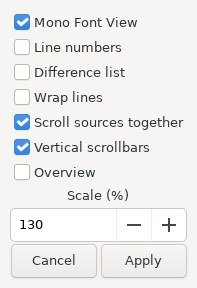
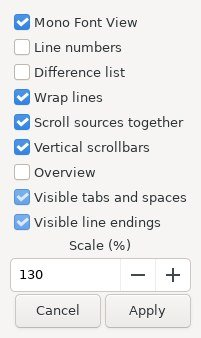
Add persisted visible whitespace and EOL overlays to all comparison panes

Changed region(s): [[0.0305, 0.0312, 0.9746, 1.0]]

diff --git a/src/insight-diff.c b/src/insight-diff.c
@@ -17,6 +17,7 @@ typedef struct {
  GtkWidget *find_entry,*find_side,*find_case,*find_word,*find_wrap,*find_previous,*find_next,*find_status,*numbers;
  GtkWidget *replace_entry,*replace_selection,*replace_once,*replace_case,*replace_status,*replace_apply;
  GtkWidget *edit_tab_width;
+ GtkWidget *visible_space,*visible_eol;
  GtkWidget *line_side,*line_number,*line_select,*line_status;
  GArray *map_blocks[2];guint map_lines[2];
  GtkWidget *scrollers[3],*maps[2],*zoom,*mono,*vertical,*overview,*list_toggle,*wrap_toggle;GtkCssProvider *font_css;
@@ -30,9 +31,9 @@ typedef struct {
 static GKeyFile *view_defaults;
 static GList *open_compares;
 static const gchar *view_group="file-compare";
-static const gchar *view_checks[]={"mono","numbers","list","wrap","sync","vertical","overview","ignore-space","ignore-eol"};
+static const gchar *view_checks[]={"mono","numbers","list","wrap","sync","vertical","overview","ignore-space","ignore-eol","visible-space","visible-eol"};
 static void view_controls(Merge *m,GtkWidget **controls) {
- GtkWidget *items[]={m->mono,m->numbers,m->list_toggle,m->wrap_toggle,m->sync,m->vertical,m->overview,m->ignore_space,m->ignore_eol};for(guint i=0;i<G_N_ELEMENTS(items);i++) controls[i]=items[i];
+ GtkWidget *items[]={m->mono,m->numbers,m->list_toggle,m->wrap_toggle,m->sync,m->vertical,m->overview,m->ignore_space,m->ignore_eol,m->visible_space,m->visible_eol};for(guint i=0;i<G_N_ELEMENTS(items);i++) controls[i]=items[i];
 }
 static void view_copy(GKeyFile *from,GKeyFile *to) {
  g_key_file_remove_group(to,view_group,NULL);const gchar *extra[]={"version","zoom","width","height"};
@@ -410,6 +411,33 @@ static gboolean draw_numbers(GtkWidget *widget,cairo_t *cr,gpointer data) {
  } while(TRUE);
  g_object_unref(layout);cairo_restore(cr);return FALSE;
 }
+static const gchar *whitespace_symbol(GtkTextIter at,gboolean spaces,gboolean endings) {
+ gunichar c=gtk_text_iter_get_char(&at);
+ if(spaces && c==' ') return "·";
+ if(spaces && c=='\t') return "→";
+ if(endings && c=='\r') return "¶";
+ if(endings && c=='\n') { GtkTextIter before=at;if(gtk_text_iter_backward_char(&before) && gtk_text_iter_get_char(&before)=='\r') return NULL;return "¶"; }
+ return NULL;
+}
+static gboolean draw_whitespace(GtkWidget *widget,cairo_t *cr,gpointer data) {
+ Merge *m=data;gboolean spaces=gtk_toggle_button_get_active(GTK_TOGGLE_BUTTON(m->visible_space)),endings=gtk_toggle_button_get_active(GTK_TOGGLE_BUTTON(m->visible_eol));if(!spaces && !endings) return FALSE;
+ GtkTextView *view=GTK_TEXT_VIEW(widget);GdkWindow *window=gtk_text_view_get_window(view,GTK_TEXT_WINDOW_TEXT);if(!window || !gtk_cairo_should_draw_window(cr,window)) return FALSE;
+ cairo_save(cr);gtk_cairo_transform_to_window(cr,widget,window);cairo_rectangle(cr,0,0,gdk_window_get_width(window),gdk_window_get_height(window));cairo_clip(cr);
+ GdkRGBA color;GtkStyleContext *style=gtk_widget_get_style_context(widget);gtk_style_context_get_color(style,gtk_style_context_get_state(style),&color);color.alpha*=0.55;gdk_cairo_set_source_rgba(cr,&color);
+ GdkRectangle visible;gtk_text_view_get_visible_rect(view,&visible);GtkTextIter at;gtk_text_view_get_iter_at_location(view,&at,visible.x,visible.y);
+ PangoLayout *layout=gtk_widget_create_pango_layout(widget,NULL);
+ /* Bound work even for pathological unwrapped lines. Glyphs never enter buffers. */
+ for(guint scanned=0;scanned<20000 && !gtk_text_iter_is_end(&at);scanned++) {
+  GdkRectangle location;gtk_text_view_get_iter_location(view,&at,&location);if(location.y>visible.y+visible.height) break;
+  const gchar *symbol=whitespace_symbol(at,spaces,endings);
+  if(symbol && location.x+MAX(location.width,8)>=visible.x && location.x<visible.x+visible.width && location.y+location.height>=visible.y) {
+   gint x,y,width,height;gtk_text_view_buffer_to_window_coords(view,GTK_TEXT_WINDOW_TEXT,location.x,location.y,&x,&y);pango_layout_set_text(layout,symbol,-1);pango_layout_get_pixel_size(layout,&width,&height);
+   cairo_move_to(cr,x+MAX(0,(location.width-width)/2),y+MAX(0,(location.height-height)/2));pango_cairo_show_layout(cr,layout);
+  }
+  if(!gtk_text_iter_forward_char(&at)) break;
+ }
+ g_object_unref(layout);cairo_restore(cr);return FALSE;
+}
 static gint selected(Merge *m);
 static void map_redraw(Merge *m) { for(gint i=0;i<2;i++) if(m->maps[i]) gtk_widget_queue_draw(m->maps[i]); }
 static guint map_line(const gchar *text,gsize *offset,guint *line,gsize target) {
@@ -470,7 +498,7 @@ static void view_options(GtkWidget *widget,gpointer data) {
  (void)widget;Merge *m=data;GtkWidget *window=m->window;g_object_ref(window);
  GtkWidget *dialog=gtk_dialog_new_with_buttons("File Compare Options",GTK_WINDOW(window),GTK_DIALOG_MODAL|GTK_DIALOG_DESTROY_WITH_PARENT,"Cancel",GTK_RESPONSE_CANCEL,"Apply",GTK_RESPONSE_APPLY,NULL);gtk_widget_set_name(dialog,"insight-diff-options");
  g_object_ref(dialog);GtkWidget *box=gtk_dialog_get_content_area(GTK_DIALOG(dialog));gtk_container_set_border_width(GTK_CONTAINER(box),10);
- GtkWidget *sources[]={m->mono,m->numbers,m->list_toggle,m->wrap_toggle,m->sync,m->vertical,m->overview};GtkWidget *checks[G_N_ELEMENTS(sources)];
+ GtkWidget *sources[]={m->mono,m->numbers,m->list_toggle,m->wrap_toggle,m->sync,m->vertical,m->overview,m->visible_space,m->visible_eol};GtkWidget *checks[G_N_ELEMENTS(sources)];
  for(guint i=0;i<G_N_ELEMENTS(sources);i++) { checks[i]=gtk_check_button_new_with_label(gtk_button_get_label(GTK_BUTTON(sources[i])));gtk_toggle_button_set_active(GTK_TOGGLE_BUTTON(checks[i]),gtk_toggle_button_get_active(GTK_TOGGLE_BUTTON(sources[i])));gtk_box_pack_start(GTK_BOX(box),checks[i],FALSE,FALSE,2);gchar *name=g_strdup_printf("insight-diff-options-%u",i);gtk_widget_set_name(checks[i],name);g_free(name); }
  GtkWidget *scale=gtk_spin_button_new_with_range(50,250,10);gtk_spin_button_set_value(GTK_SPIN_BUTTON(scale),gtk_spin_button_get_value(GTK_SPIN_BUTTON(m->zoom)));gtk_widget_set_name(scale,"insight-diff-options-zoom");gtk_box_pack_start(GTK_BOX(box),gtk_label_new("Scale (%)"),FALSE,FALSE,2);gtk_box_pack_start(GTK_BOX(box),scale,FALSE,FALSE,2);gtk_widget_show_all(dialog);
  gint response=gtk_dialog_run(GTK_DIALOG(dialog));m=g_object_get_data(G_OBJECT(window),"insight-diff-state");
@@ -614,7 +642,7 @@ static void source_menu(GtkTextView *view,GtkWidget *menu,gpointer data) {
   if(action>=14) gtk_widget_set_sensitive(item,!m->busy && (action==14 || gtk_text_buffer_get_has_selection(result(m))));
   if(action<2) gtk_widget_set_sensitive(item,!m->busy && m->loaded_paths[side] && (action==0 ? source_opener!=NULL : selected(m)>=0));
  }
- GtkWidget *toggles[]={m->mono,m->numbers,m->list_toggle,m->wrap_toggle,m->vertical,m->overview};
+ GtkWidget *toggles[]={m->mono,m->numbers,m->list_toggle,m->wrap_toggle,m->vertical,m->overview,m->visible_space,m->visible_eol};
  for(guint i=0;i<G_N_ELEMENTS(toggles);i++) { GtkWidget *item=gtk_check_menu_item_new_with_label(gtk_button_get_label(GTK_BUTTON(toggles[i])));gtk_check_menu_item_set_active(GTK_CHECK_MENU_ITEM(item),gtk_toggle_button_get_active(GTK_TOGGLE_BUTTON(toggles[i])));gtk_menu_shell_append(GTK_MENU_SHELL(menu),item);g_signal_connect_object(item,"toggled",G_CALLBACK(view_menu_toggle),toggles[i],0); }
  gtk_widget_show_all(menu);
 }
@@ -834,6 +862,9 @@ static Merge *merge_new(GtkWidget *parent) {
  m->overview=gtk_check_button_new_with_label("Overview");gtk_box_pack_start(GTK_BOX(display),m->overview,FALSE,FALSE,0);
  gtk_box_pack_start(GTK_BOX(display),gtk_label_new("Scale (%)"),FALSE,FALSE,0);m->zoom=gtk_spin_button_new_with_range(50,250,10);gtk_spin_button_set_value(GTK_SPIN_BUTTON(m->zoom),100);gtk_widget_set_name(m->zoom,"insight-diff-zoom");gtk_box_pack_start(GTK_BOX(display),m->zoom,FALSE,FALSE,0);GtkWidget *settings=button(display,"Options…",G_CALLBACK(view_options),m);gtk_widget_set_name(settings,"insight-diff-options-button");m->font_css=gtk_css_provider_new();
  GtkWidget *history_button=button(display,"Result History…",G_CALLBACK(history_dialog),m);gtk_widget_set_name(history_button,"insight-diff-history-button");
+ GtkWidget *whitespace=gtk_box_new(GTK_ORIENTATION_HORIZONTAL,4);gtk_box_pack_start(GTK_BOX(box),whitespace,FALSE,FALSE,0);
+ m->visible_space=gtk_check_button_new_with_label("Visible tabs and spaces");gtk_box_pack_start(GTK_BOX(whitespace),m->visible_space,FALSE,FALSE,0);
+ m->visible_eol=gtk_check_button_new_with_label("Visible line endings");gtk_box_pack_start(GTK_BOX(whitespace),m->visible_eol,FALSE,FALSE,0);gtk_box_pack_start(GTK_BOX(whitespace),gtk_label_new("· space   → tab   ¶ line ending"),FALSE,FALSE,4);
  GtkWidget *find=gtk_box_new(GTK_ORIENTATION_HORIZONTAL,4);gtk_box_pack_start(GTK_BOX(box),find,FALSE,FALSE,0);
  m->find_side=gtk_combo_box_text_new();gtk_combo_box_text_append_text(GTK_COMBO_BOX_TEXT(m->find_side),"Left");gtk_combo_box_text_append_text(GTK_COMBO_BOX_TEXT(m->find_side),"Right");gtk_combo_box_text_append_text(GTK_COMBO_BOX_TEXT(m->find_side),"Result");gtk_combo_box_set_active(GTK_COMBO_BOX(m->find_side),0);gtk_box_pack_start(GTK_BOX(find),m->find_side,FALSE,FALSE,0);
  m->find_entry=gtk_search_entry_new();gtk_widget_set_name(m->find_entry,"insight-diff-search");gtk_entry_set_placeholder_text(GTK_ENTRY(m->find_entry),"Find text — Ctrl+F, F3 / Shift+F3");gtk_box_pack_start(GTK_BOX(find),m->find_entry,TRUE,TRUE,0);
@@ -879,7 +910,7 @@ static Merge *merge_new(GtkWidget *parent) {
 
   gtk_style_context_add_provider(gtk_widget_get_style_context(m->views[i]),GTK_STYLE_PROVIDER(m->font_css),GTK_STYLE_PROVIDER_PRIORITY_APPLICATION);gtk_widget_add_events(m->views[i],GDK_SCROLL_MASK|GDK_SMOOTH_SCROLL_MASK);g_signal_connect(m->views[i],"scroll-event",G_CALLBACK(zoom_scroll),m);
   g_signal_connect(m->views[i],"key-press-event",G_CALLBACK(key),m);g_signal_connect(m->views[i],"populate-popup",G_CALLBACK(source_menu),m);
-  g_signal_connect_after(m->views[i],"draw",G_CALLBACK(draw_numbers),m);
+  g_signal_connect_after(m->views[i],"draw",G_CALLBACK(draw_numbers),m);g_signal_connect_after(m->views[i],"draw",G_CALLBACK(draw_whitespace),m);
   g_signal_connect(gtk_text_view_get_buffer(GTK_TEXT_VIEW(m->views[i])),"changed",G_CALLBACK(gutter_size),m);
   if(i<2) gtk_text_buffer_create_tag(gtk_text_view_get_buffer(GTK_TEXT_VIEW(m->views[i])),"difference","background",i ? "#d5f5d5" : "#ffe0d0","foreground","#202020",NULL);
  }
@@ -898,6 +929,7 @@ static Merge *merge_new(GtkWidget *parent) {
  for(gint i=0;i<2;i++) { g_signal_connect(m->adjustments[i],"value-changed",G_CALLBACK(map_adjustment),m);g_signal_connect(m->adjustments[i],"changed",G_CALLBACK(map_adjustment),m); }
  g_signal_connect(m->numbers,"toggled",G_CALLBACK(number_toggle),m);number_toggle(NULL,m);
  g_object_set_data(G_OBJECT(m->window),"insight-diff-state",m);
+ g_signal_connect(m->visible_space,"toggled",G_CALLBACK(display_changed),m);g_signal_connect(m->visible_eol,"toggled",G_CALLBACK(display_changed),m);
  g_signal_connect(m->zoom,"value-changed",G_CALLBACK(display_changed),m);g_signal_connect(m->mono,"toggled",G_CALLBACK(display_changed),m);g_signal_connect(m->vertical,"toggled",G_CALLBACK(display_changed),m);g_signal_connect(m->overview,"toggled",G_CALLBACK(display_changed),m);
  GtkWidget *controls[G_N_ELEMENTS(view_checks)];view_controls(m,controls);for(guint i=0;i<G_N_ELEMENTS(view_checks);i++) { g_object_ref(controls[i]);gchar *name=g_strconcat("insight-diff-",view_checks[i],NULL);gtk_widget_set_name(controls[i],name);g_free(name); }g_object_ref(m->zoom);
  record(m);selection(NULL,m);gtk_widget_show_all(m->window);view_restore(m,view_defaults);display_changed(NULL,m);open_compares=g_list_prepend(open_compares,m);return m;

diff --git a/insight/tests/diff_gui_test.c b/insight/tests/diff_gui_test.c
@@ -46,6 +46,7 @@ static gboolean options_response(gpointer data) {
  for(GList *p=windows;p && !dialog;p=p->next) if(!g_strcmp0(gtk_widget_get_name(p->data),"insight-diff-options")) dialog=p->data;
  g_list_free(windows);g_assert_nonnull(dialog);
  gtk_spin_button_set_value(GTK_SPIN_BUTTON(named(dialog,"insight-diff-options-zoom")),130);gtk_toggle_button_set_active(GTK_TOGGLE_BUTTON(named(dialog,"insight-diff-options-1")),FALSE);gtk_toggle_button_set_active(GTK_TOGGLE_BUTTON(named(dialog,"insight-diff-options-2")),FALSE);
+ gtk_toggle_button_set_active(GTK_TOGGLE_BUTTON(named(dialog,"insight-diff-options-7")),TRUE);gtk_toggle_button_set_active(GTK_TOGGLE_BUTTON(named(dialog,"insight-diff-options-8")),TRUE);
  const gchar *capture=g_getenv("INSIGHT_DIFF_OPTIONS_CAPTURE");
  if(capture && GPOINTER_TO_INT(data)==GTK_RESPONSE_APPLY) { gint64 until=g_get_monotonic_time()+200000;while(g_get_monotonic_time()<until) { flush();g_usleep(1000); }GdkWindow *window=gtk_widget_get_window(dialog);GdkPixbuf *image=gdk_pixbuf_get_from_window(window,0,0,gdk_window_get_width(window),gdk_window_get_height(window));g_assert_nonnull(image);g_assert_true(gdk_pixbuf_save(image,capture,"jpeg",NULL,"quality","88",NULL));g_object_unref(image); }
  gtk_dialog_response(GTK_DIALOG(dialog),GPOINTER_TO_INT(data));return G_SOURCE_REMOVE;
@@ -179,14 +180,26 @@ static void export_test(void) {
  action.mutate=TRUE;g_timeout_add(100,export_choose,&action);write_result(m,1);g_assert_false(g_file_test(path,G_FILE_TEST_EXISTS));g_assert_nonnull(strstr(gtk_label_get_text(GTK_LABEL(m->status)),"Nothing written"));
  action.mutate=FALSE;action.destroy=TRUE;gboolean gone=FALSE;g_object_weak_ref(G_OBJECT(m->window),finalized,&gone);g_timeout_add(100,export_choose,&action);write_result(m,1);flush();g_assert_true(gone);g_assert_false(g_file_test(path,G_FILE_TEST_EXISTS));g_free(saved);g_rmdir(folder);g_free(path);g_free(folder);
 }
+static GdkPixbuf *text_capture(GtkWidget *view) {
+ gint64 until=g_get_monotonic_time()+200000;while(g_get_monotonic_time()<until) { flush();g_usleep(1000); }
+ GdkWindow *window=gtk_text_view_get_window(GTK_TEXT_VIEW(view),GTK_TEXT_WINDOW_TEXT);GdkPixbuf *pixbuf=gdk_pixbuf_get_from_window(window,0,0,gdk_window_get_width(window),gdk_window_get_height(window));g_assert_nonnull(pixbuf);return pixbuf;
+}
+static void whitespace_test(void) {
+ Merge *m=merge_new(NULL);GtkTextBuffer *buffer=result(m);const gchar *text="я \t\r\nx\ry\n\n";gtk_text_buffer_set_text(buffer,text,-1);guint history=m->history->len;
+ GtkTextIter at;gtk_text_buffer_get_start_iter(buffer,&at);guint markers=0,endings=0;
+ while(!gtk_text_iter_is_end(&at)) { const gchar *symbol=whitespace_symbol(at,TRUE,TRUE);if(symbol) { markers++;if(!strcmp(symbol,"¶")) endings++; }g_assert_null(whitespace_symbol(at,FALSE,FALSE));gtk_text_iter_forward_char(&at); }
+ g_assert_cmpuint(markers,==,6);g_assert_cmpuint(endings,==,4);gtk_text_view_set_cursor_visible(GTK_TEXT_VIEW(m->views[2]),FALSE);
+ GdkPixbuf *plain=text_capture(m->views[2]);gtk_toggle_button_set_active(GTK_TOGGLE_BUTTON(m->visible_space),TRUE);gtk_toggle_button_set_active(GTK_TOGGLE_BUTTON(m->visible_eol),TRUE);GdkPixbuf *marked=text_capture(m->views[2]);g_assert_cmpint(gdk_pixbuf_get_byte_length(plain),==,gdk_pixbuf_get_byte_length(marked));g_assert_true(memcmp(gdk_pixbuf_get_pixels(plain),gdk_pixbuf_get_pixels(marked),gdk_pixbuf_get_byte_length(plain))!=0);g_object_unref(plain);g_object_unref(marked);assert_text(m,text);g_assert_cmpuint(m->history->len,==,history);
+ GKeyFile *prefs=g_key_file_new();view_save(m,prefs);gtk_toggle_button_set_active(GTK_TOGGLE_BUTTON(m->visible_space),FALSE);gtk_toggle_button_set_active(GTK_TOGGLE_BUTTON(m->visible_eol),FALSE);view_restore(m,prefs);g_assert_true(gtk_toggle_button_get_active(GTK_TOGGLE_BUTTON(m->visible_space)));g_assert_true(gtk_toggle_button_get_active(GTK_TOGGLE_BUTTON(m->visible_eol)));g_key_file_unref(prefs);gtk_widget_destroy(m->window);flush();
+}
 int main(int argc,char **argv) {
- g_setenv("GSETTINGS_BACKEND","memory",TRUE);gtk_init(&argc,&argv);line_navigation_test();search_options_test();replace_test();case_test();line_edit_test();history_test();export_test();insight_diff_set_source_opener(source_opened);
+ g_setenv("GSETTINGS_BACKEND","memory",TRUE);gtk_init(&argc,&argv);line_navigation_test();search_options_test();replace_test();case_test();line_edit_test();history_test();export_test();whitespace_test();insight_diff_set_source_opener(source_opened);
  GError *error=NULL;gchar *dir=g_dir_make_tmp("insight-diff-XXXXXX",&error);g_assert_no_error(error);
  gchar *left=g_build_filename(dir,"left.txt",NULL),*right=g_build_filename(dir,"right.txt",NULL);
  const char *a="start\nleft\ncommon\nlast left\nend\n",*b="start\nright\ncommon\nlast right\nextra\nend\n";
  g_assert_true(g_file_set_contents(left,a,-1,&error));g_assert_no_error(error);
  g_assert_true(g_file_set_contents(right,b,-1,&error));g_assert_no_error(error);
- Merge *m=merge_new(NULL);flush();g_assert_false(gtk_widget_get_sensitive(m->next));
+ Merge *m=merge_new(NULL);gtk_toggle_button_set_active(GTK_TOGGLE_BUTTON(m->visible_space),FALSE);gtk_toggle_button_set_active(GTK_TOGGLE_BUTTON(m->visible_eol),FALSE);flush();g_assert_false(gtk_widget_get_sensitive(m->next));
  gtk_entry_set_text(GTK_ENTRY(m->paths[0]),left);gtk_entry_set_text(GTK_ENTRY(m->paths[1]),right);
  compare(NULL,m);wait_comparison(m);g_assert_cmpuint(m->diff.count,==,2);g_assert_cmpint(selected(m),==,0);
  g_assert_false(gtk_widget_get_sensitive(m->previous));g_assert_true(gtk_widget_get_sensitive(m->next));
@@ -228,8 +241,8 @@ int main(int argc,char **argv) {
  gtk_spin_button_set_value(GTK_SPIN_BUTTON(m->zoom),300);g_assert_cmpint(gtk_spin_button_get_value_as_int(GTK_SPIN_BUTTON(m->zoom)),==,250);gtk_spin_button_set_value(GTK_SPIN_BUTTON(m->zoom),100);
  gtk_toggle_button_set_active(GTK_TOGGLE_BUTTON(m->vertical),FALSE);for(gint i=0;i<3;i++) { GtkPolicyType h,v;gtk_scrolled_window_get_policy(GTK_SCROLLED_WINDOW(m->scrollers[i]),&h,&v);g_assert_cmpint(v,==,GTK_POLICY_NEVER); }gtk_toggle_button_set_active(GTK_TOGGLE_BUTTON(m->vertical),TRUE);
  gtk_toggle_button_set_active(GTK_TOGGLE_BUTTON(m->mono),FALSE);g_assert_false(gtk_text_view_get_monospace(GTK_TEXT_VIEW(m->views[0])));gtk_toggle_button_set_active(GTK_TOGGLE_BUTTON(m->mono),TRUE);
- g_idle_add(options_response,GINT_TO_POINTER(GTK_RESPONSE_CANCEL));view_options(NULL,m);g_assert_cmpint(gtk_spin_button_get_value_as_int(GTK_SPIN_BUTTON(m->zoom)),==,100);g_assert_true(gtk_toggle_button_get_active(GTK_TOGGLE_BUTTON(m->numbers)));
- g_idle_add(options_response,GINT_TO_POINTER(GTK_RESPONSE_APPLY));view_options(NULL,m);g_assert_cmpint(gtk_spin_button_get_value_as_int(GTK_SPIN_BUTTON(m->zoom)),==,130);g_assert_false(gtk_widget_get_visible(m->list_scroll));g_assert_false(gtk_toggle_button_get_active(GTK_TOGGLE_BUTTON(m->numbers)));g_assert_cmpuint(m->position,==,display_history);assert_text(m,a);
+ g_idle_add(options_response,GINT_TO_POINTER(GTK_RESPONSE_CANCEL));view_options(NULL,m);g_assert_cmpint(gtk_spin_button_get_value_as_int(GTK_SPIN_BUTTON(m->zoom)),==,100);g_assert_true(gtk_toggle_button_get_active(GTK_TOGGLE_BUTTON(m->numbers)));g_assert_false(gtk_toggle_button_get_active(GTK_TOGGLE_BUTTON(m->visible_space)));
+ g_idle_add(options_response,GINT_TO_POINTER(GTK_RESPONSE_APPLY));view_options(NULL,m);g_assert_cmpint(gtk_spin_button_get_value_as_int(GTK_SPIN_BUTTON(m->zoom)),==,130);g_assert_false(gtk_widget_get_visible(m->list_scroll));g_assert_false(gtk_toggle_button_get_active(GTK_TOGGLE_BUTTON(m->numbers)));g_assert_cmpuint(m->position,==,display_history);g_assert_true(gtk_toggle_button_get_active(GTK_TOGGLE_BUTTON(m->visible_space)));g_assert_true(gtk_toggle_button_get_active(GTK_TOGGLE_BUTTON(m->visible_eol)));assert_text(m,a);
  gtk_spin_button_set_value(GTK_SPIN_BUTTON(m->zoom),100);gtk_toggle_button_set_active(GTK_TOGGLE_BUTTON(m->numbers),TRUE);gtk_toggle_button_set_active(GTK_TOGGLE_BUTTON(m->list_toggle),TRUE);
  gtk_toggle_button_set_active(GTK_TOGGLE_BUTTON(m->overview),TRUE);gint64 map_deadline=g_get_monotonic_time()+200000;while(g_get_monotonic_time()<map_deadline) { flush();g_usleep(1000); }g_assert_cmpint(gtk_widget_get_allocated_height(m->maps[0]),>,20);for(gint i=0;i<2;i++) { g_assert_true(gtk_widget_get_visible(m->maps[i]));g_assert_cmpuint(m->map_blocks[i]->len,==,m->diff.count); }
  /* EOF changes in a long file must remain visible and clickable, rather

diff --git a/insight/tests/directory_compare_native_gui_test.c b/insight/tests/directory_compare_native_gui_test.c
@@ -21,7 +21,7 @@ static GtkWidget *window_named(const gchar *name) {
 static gboolean respond_file_dialog(gpointer data) {GtkWidget *dialog=window_named("insight-directory-operation-dialog");g_assert_nonnull(dialog);gtk_dialog_response(GTK_DIALOG(dialog),GPOINTER_TO_INT(data));return G_SOURCE_REMOVE;
 }
 static gboolean apply_compare_options(gpointer data) {
- (void)data;GtkWidget *dialog=window_named("insight-diff-options");g_assert_nonnull(dialog);gtk_spin_button_set_value(GTK_SPIN_BUTTON(named(dialog,"insight-diff-options-zoom")),130);gtk_toggle_button_set_active(GTK_TOGGLE_BUTTON(named(dialog,"insight-diff-options-6")),TRUE);gtk_dialog_response(GTK_DIALOG(dialog),GTK_RESPONSE_APPLY);return G_SOURCE_REMOVE;
+ (void)data;GtkWidget *dialog=window_named("insight-diff-options");g_assert_nonnull(dialog);gtk_spin_button_set_value(GTK_SPIN_BUTTON(named(dialog,"insight-diff-options-zoom")),130);gtk_toggle_button_set_active(GTK_TOGGLE_BUTTON(named(dialog,"insight-diff-options-6")),TRUE);gtk_toggle_button_set_active(GTK_TOGGLE_BUTTON(named(dialog,"insight-diff-options-7")),TRUE);gtk_toggle_button_set_active(GTK_TOGGLE_BUTTON(named(dialog,"insight-diff-options-8")),TRUE);gtk_dialog_response(GTK_DIALOG(dialog),GTK_RESPONSE_APPLY);return G_SOURCE_REMOVE;
 }
 static gboolean apply_history_state(gpointer data) {
  (void)data;GtkWidget *dialog=window_named("insight-diff-history");g_assert_nonnull(dialog);GtkTreePath *path=gtk_tree_path_new_from_indices(1,-1);gtk_tree_view_set_cursor(GTK_TREE_VIEW(named(dialog,"insight-diff-history-list")),path,NULL,FALSE);gtk_tree_path_free(path);gtk_dialog_response(GTK_DIALOG(dialog),GTK_RESPONSE_APPLY);return G_SOURCE_REMOVE;
@@ -56,6 +56,7 @@ static gboolean step(gpointer data) {
   if(!gtk_widget_get_sensitive(named(merge,"insight-diff-compare"))) return G_SOURCE_CONTINUE;
   GtkTextBuffer *buffer=gtk_text_view_get_buffer(GTK_TEXT_VIEW(named(merge,"insight-diff-result")));GtkTextIter a,z;gtk_text_buffer_get_bounds(buffer,&a,&z);gchar *text=gtk_text_buffer_get_text(buffer,&a,&z,TRUE);g_assert_cmpstr(text,==,"port = 3000\n");g_free(text);
   GdkEventKey shortcut={0};shortcut.type=GDK_KEY_PRESS;shortcut.state=GDK_CONTROL_MASK;shortcut.keyval=GDK_KEY_q;gboolean handled=FALSE;g_idle_add(apply_compare_options,NULL);g_signal_emit_by_name(merge,"key-press-event",&shortcut,&handled);g_assert_true(handled);g_assert_cmpint(gtk_spin_button_get_value_as_int(GTK_SPIN_BUTTON(named(merge,"insight-diff-zoom"))),==,130);g_assert_true(gtk_toggle_button_get_active(GTK_TOGGLE_BUTTON(named(merge,"insight-diff-overview"))));
+  g_assert_true(gtk_toggle_button_get_active(GTK_TOGGLE_BUTTON(named(merge,"insight-diff-visible-space"))));g_assert_true(gtk_toggle_button_get_active(GTK_TOGGLE_BUTTON(named(merge,"insight-diff-visible-eol"))));
   gtk_entry_set_text(GTK_ENTRY(named(merge,"insight-diff-search")),"port");gtk_entry_set_text(GTK_ENTRY(named(merge,"insight-diff-replacement")),"SERVER");gtk_toggle_button_set_active(GTK_TOGGLE_BUTTON(named(merge,"insight-diff-preserve-case")),TRUE);gtk_button_clicked(GTK_BUTTON(named(merge,"insight-diff-replace-all")));gtk_text_buffer_get_bounds(buffer,&a,&z);text=gtk_text_buffer_get_text(buffer,&a,&z,TRUE);g_assert_cmpstr(text,==,"server = 3000\n");g_free(text);shortcut.keyval=GDK_KEY_z;handled=FALSE;g_signal_emit_by_name(merge,"key-press-event",&shortcut,&handled);g_assert_true(handled);gtk_text_buffer_get_bounds(buffer,&a,&z);text=gtk_text_buffer_get_text(buffer,&a,&z,TRUE);g_assert_cmpstr(text,==,"port = 3000\n");g_free(text);
   gtk_text_buffer_get_start_iter(buffer,&a);gtk_text_buffer_place_cursor(buffer,&a);GtkWidget *result_menu=GTK_WIDGET(gtk_menu_button_get_popup(GTK_MENU_BUTTON(named(merge,"insight-diff-result-menu"))));gtk_widget_show(result_menu);GList *edit_items=gtk_container_get_children(GTK_CONTAINER(result_menu));gboolean indented=FALSE;for(GList *p=edit_items;p;p=p->next) if(GTK_IS_MENU_ITEM(p->data) && !g_strcmp0(gtk_menu_item_get_label(p->data),"Indent result lines")) { gtk_menu_item_activate(p->data);indented=TRUE;break; }g_list_free(edit_items);gtk_widget_hide(result_menu);g_assert_true(indented);gtk_text_buffer_get_bounds(buffer,&a,&z);text=gtk_text_buffer_get_text(buffer,&a,&z,TRUE);g_assert_cmpstr(text,==,"    port = 3000\n");g_free(text);shortcut.keyval=GDK_KEY_z;handled=FALSE;g_signal_emit_by_name(merge,"key-press-event",&shortcut,&handled);g_assert_true(handled);
   g_idle_add(apply_history_state,NULL);gtk_button_clicked(GTK_BUTTON(named(merge,"insight-diff-history-button")));gtk_text_buffer_get_bounds(buffer,&a,&z);text=gtk_text_buffer_get_text(buffer,&a,&z,TRUE);g_assert_cmpstr(text,==,"    port = 3000\n");g_free(text);shortcut.keyval=GDK_KEY_z;handled=FALSE;g_signal_emit_by_name(merge,"key-press-event",&shortcut,&handled);g_assert_true(handled);
@@ -84,5 +85,5 @@ int main(void) {
  gchar *unknown=g_build_filename(left,"payload.insight-unknown-binary-77",NULL);g_assert_true(g_file_set_contents(unknown,"a\0b",3,NULL));g_free(unknown);
  gchar *args[]={"directory-native","--new-instance","--no-session","--config",profile,source,NULL};g_timeout_add(250,step,NULL);g_timeout_add_seconds(30,timeout,NULL);g_log_set_always_fatal(G_LOG_FATAL_MASK|G_LOG_LEVEL_CRITICAL);
  gint result=main_lib(6,args);
- GKeyFile *saved=g_key_file_new();gchar *prefs=g_build_filename(profile,"insight","workbench.conf",NULL);g_assert_true(g_key_file_load_from_file(saved,prefs,G_KEY_FILE_NONE,NULL));g_assert_cmpint(g_key_file_get_integer(saved,"directory-compare","version",NULL),==,1);g_assert_true(g_key_file_get_boolean(saved,"directory-compare","known",NULL));g_assert_false(g_key_file_get_boolean(saved,"directory-compare","confirm",NULL));g_assert_cmpint(g_key_file_get_integer(saved,"file-compare","zoom",NULL),==,130);g_assert_true(g_key_file_get_boolean(saved,"file-compare","overview",NULL));g_free(prefs);g_key_file_unref(saved);g_free(other);g_free(config);g_free(source);g_free(left);g_free(right);g_free(profile);g_free(root);g_free(export_path);return result;
+ GKeyFile *saved=g_key_file_new();gchar *prefs=g_build_filename(profile,"insight","workbench.conf",NULL);g_assert_true(g_key_file_load_from_file(saved,prefs,G_KEY_FILE_NONE,NULL));g_assert_cmpint(g_key_file_get_integer(saved,"directory-compare","version",NULL),==,1);g_assert_true(g_key_file_get_boolean(saved,"directory-compare","known",NULL));g_assert_false(g_key_file_get_boolean(saved,"directory-compare","confirm",NULL));g_assert_cmpint(g_key_file_get_integer(saved,"file-compare","zoom",NULL),==,130);g_assert_true(g_key_file_get_boolean(saved,"file-compare","overview",NULL));g_assert_true(g_key_file_get_boolean(saved,"file-compare","visible-space",NULL));g_assert_true(g_key_file_get_boolean(saved,"file-compare","visible-eol",NULL));g_free(prefs);g_key_file_unref(saved);g_free(other);g_free(config);g_free(source);g_free(left);g_free(right);g_free(profile);g_free(root);g_free(export_path);return result;
 }

diff --git a/insight/docs/source-insight-parity.md b/insight/docs/source-insight-parity.md
@@ -452,3 +452,7 @@ Added Undo All/Redo All over retained states and Result History with read-only f
 ### 2026-10-16 — result copy and selection export
 
 Added Save a Copy and Save Selection to Result menu. Both preserve saved-text marker and history; selection export opens the file through the native editor bridge. Unified normal result save with capture-before-dialog, busy and history-serial guards, and parent-destruction-safe lifetime handling. Exact UTF-8/EOL bytes are written without BOM/newline additions; GTK confirms overwrite. No append-to-buffer mode. Production GTK/UBSan covers copy, selection bytes, opener routing, normal save marker, Cancel, stale text, empty selection, busy and parent close. Native Linux fixture exports through Result menu and verifies file content and opened unmodified document. References: [Save A Copy](https://www.sourceinsight.com/doc/v3/ac924207.htm), [Save Selection command](https://www.sourceinsight.com/doc/v4/userguide/Manual/Command_Reference/Commands.htm).
+
+### 2026-10-16 — visible whitespace in comparison panes
+
+Added visible ASCII spaces/tabs and line-ending overlays to all three native comparison panes. CRLF produces one paragraph marker. Toolbar, Apply/Cancel options and context toggles share state; two whitelisted booleans persist without changing preference version or old option indices. Draw traversal is bounded at 20000 characters with clipping to the text window; zoom/wrap use GTK iter geometry. Production GTK/UBSan checks marker classification, real pixel changes, unchanged exact bytes/history and preference round trip. Native Linux fixture applies both options and verifies saved config. Reference: [Visible Tabs and Spaces](https://www.sourceinsight.com/doc/v4/userguide/Manual/Command_Reference/Visible_Tabs_and_Spaces.htm).

diff --git a/insight/docs/en/internal-diff.md b/insight/docs/en/internal-diff.md
@@ -246,3 +246,9 @@ Result menu provides **Save a copy of Result…** and **Save Result selection…
 Text is captured before the file chooser. If the result changes, a comparison starts or the parent window closes while choosing a destination, nothing is written. Cancel creates no file. GTK confirms overwrite of an existing destination. This exports to a file; appending to an open buffer is not implemented. Selection export requires selected result text. All three commands are blocked during comparison.
 
 ![Production GTK copy-save dialog, isolated test fixture](../media/file-compare-export.jpg)
+
+### Visible whitespace and line endings
+
+**Visible tabs and spaces** draws ASCII spaces as `·` and tabs as `→`. **Visible line endings** draws `¶` for CR, LF or a CRLF pair, with one marker per pair. These are overlays in all three panes. Marker glyphs do not enter searches, selections, clipboard text, exports or saved files and create no merge history.
+
+Both toggles are available in the toolbar, Options and context menus. Apply commits changes; Cancel keeps the previous settings. Values persist with comparison-window preferences. Drawing follows zoom and wrapping. Work is capped at 20000 characters from the visible starting position per draw; pathological long lines can omit some markers. This does not affect text or comparison results. The main-window capture above shows enabled markers.

diff --git a/insight/docs/internal-diff.md b/insight/docs/internal-diff.md
@@ -246,3 +246,9 @@ Result menu provides **Save a copy of Result…** and **Save Result selection…
 Text is captured before the file chooser. If the result changes, a comparison starts or the parent window closes while choosing a destination, nothing is written. Cancel creates no file. GTK confirms overwrite of an existing destination. This exports to a file; appending to an open buffer is not implemented. Selection export requires selected result text. All three commands are blocked during comparison.
 
 ![Production GTK copy-save dialog, isolated test fixture](media/file-compare-export.jpg)
+
+### Visible whitespace and line endings
+
+**Visible tabs and spaces** draws ASCII spaces as `·` and tabs as `→`. **Visible line endings** draws `¶` for CR, LF or a CRLF pair, with one marker per pair. These are overlays in all three panes. Marker glyphs do not enter searches, selections, clipboard text, exports or saved files and create no merge history.
+
+Both toggles are available in the toolbar, Options and context menus. Apply commits changes; Cancel keeps the previous settings. Values persist with comparison-window preferences. Drawing follows zoom and wrapping. Work is capped at 20000 characters from the visible starting position per draw; pathological long lines can omit some markers. This does not affect text or comparison results. The main-window capture above shows enabled markers.
